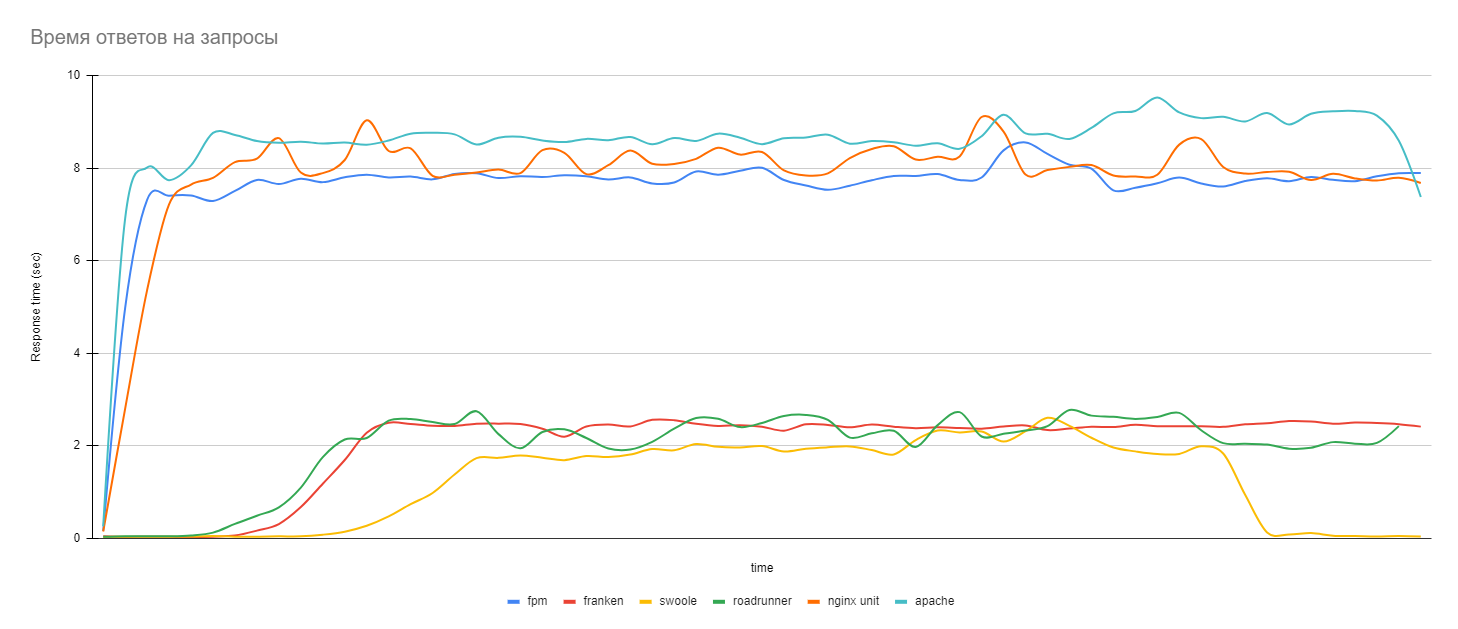
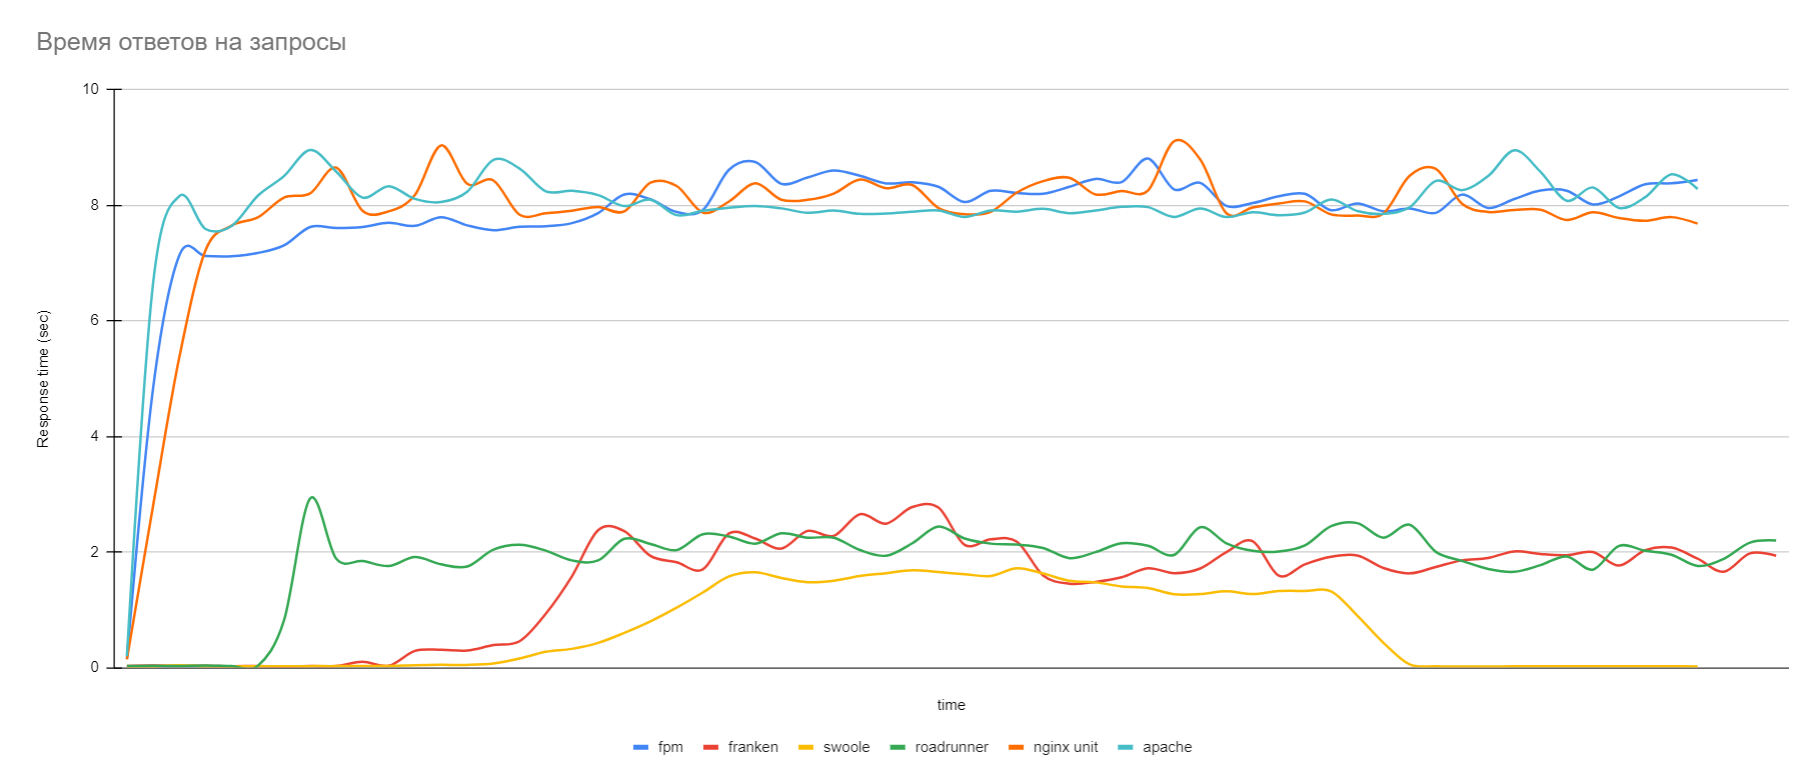
Update tests

diff --git a/readme.md b/readme.md
@@ -37,6 +37,10 @@ url: apache-127-0-0-1.nip.io:8080
 
 `docker compose -f compose.yml -f compose.fpm.yml -f compose.init.yml up -d --build`
 
+
+Для генерации товаров
+`php artisan db:seed --class=ProductSeeder --force && php artisan generate:product-links`
+
 После скопировать содержимое app/storage/product_links.txt в tank/uris.txt
 
 При тестировании Yandex tank необходимо заменить Host в tank/load.yaml на тестируемый.
@@ -52,14 +56,14 @@ pw: `admin123`
 
 ## Результаты тестов
 
-| Сервер              | AVG CPU (%)   | AVG RAM (mb)    | AVG RPS              | Результат yandex tank    |
-|---------------------|---------------|-----------------|----------------------|--------------------------|
-| fpm                 | 81            | 3106,763063     | 39.10113393459943    | https://clck.ru/3DaTdo   |
-| franken             | 44            | 856,7777778     | 115.93016905966681   | https://clck.ru/3DWrG5   |
-| RoadRunner          | 46            | 549,4125        | 118.82664528965924   | https://clck.ru/3DWuTX   |
-| swoole              | 41            | 716,7181818     | 127.51062587535598   | https://clck.ru/3DWta8   |
-| Nginx unit          | 90            | 887,0657627     | 37.85367205699279    | https://clck.ru/3DYPcg   |
-| Apache mod_php      | 80            | 5070,229699     | 35.102209383571086   | https://clck.ru/3DaNS3   |
+| Сервер         | AVG CPU (%) | AVG RAM (mb) | AVG RPS | Результат yandex tank  |
+|----------------|-------------|--------------|---------|------------------------|
+| fpm            | 87          | 3500         | 37.3    | https://clck.ru/3Dbnig |
+| franken        | 68          | 954          | 140.7   | https://clck.ru/3DbqLi |
+| RoadRunner     | 60          | 638          | 131.5   | https://clck.ru/3DbpkP |
+| swoole         | 45          | 752          | 152.5   | https://clck.ru/3DbnXQ |
+| Nginx unit     | 87          | 2384         | 39.1    | https://clck.ru/3DbpLp |
+| Apache mod_php | 89          | 5277         | 37.5    | https://clck.ru/3DboQw |
 
 
 ### График использования CPU
